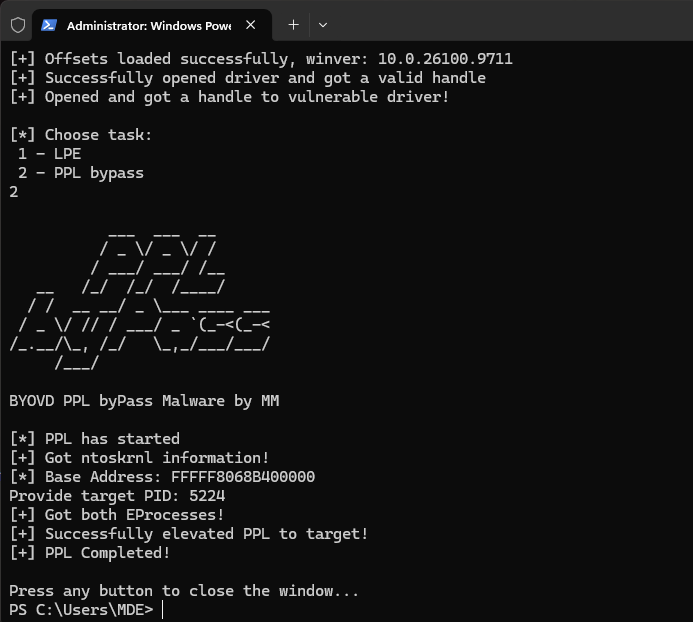
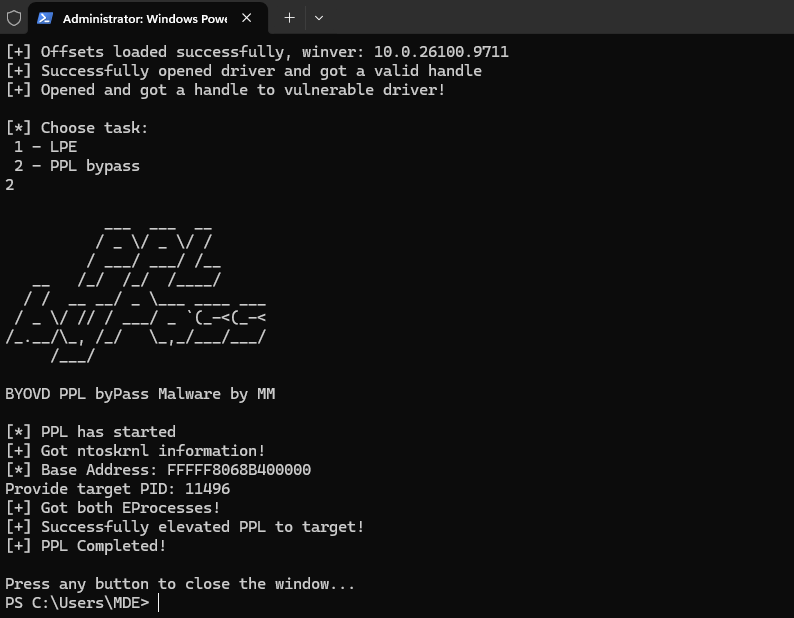
Even more pictures

Changed region(s): [[0.0, 0.3689, 0.5152, 1.0], [0.0, 0.0, 1.0, 0.3382]]

diff --git a/README.md b/README.md
@@ -12,6 +12,11 @@ In the future, the goal is to conduct post-exploitation activities. Currently, t
 # PPL
 ![Alt text](/screenshots/PPL.png?raw=true "PPL")
 
+# CMD before and after elevation
+![Alt text](/screenshots/BEFORE.png?raw=true "BEFORE")
+PID is different, bcs I closed cmd by mistake and had to do it again, but trust me it works
+![Alt text](/screenshots/AFTER.png?raw=true "AFTER")
+
 My Role & Key Contributions
 
     Conducted in-depth research on Bring Your Own Vulnerable Driver (BYOVD) techniques.
